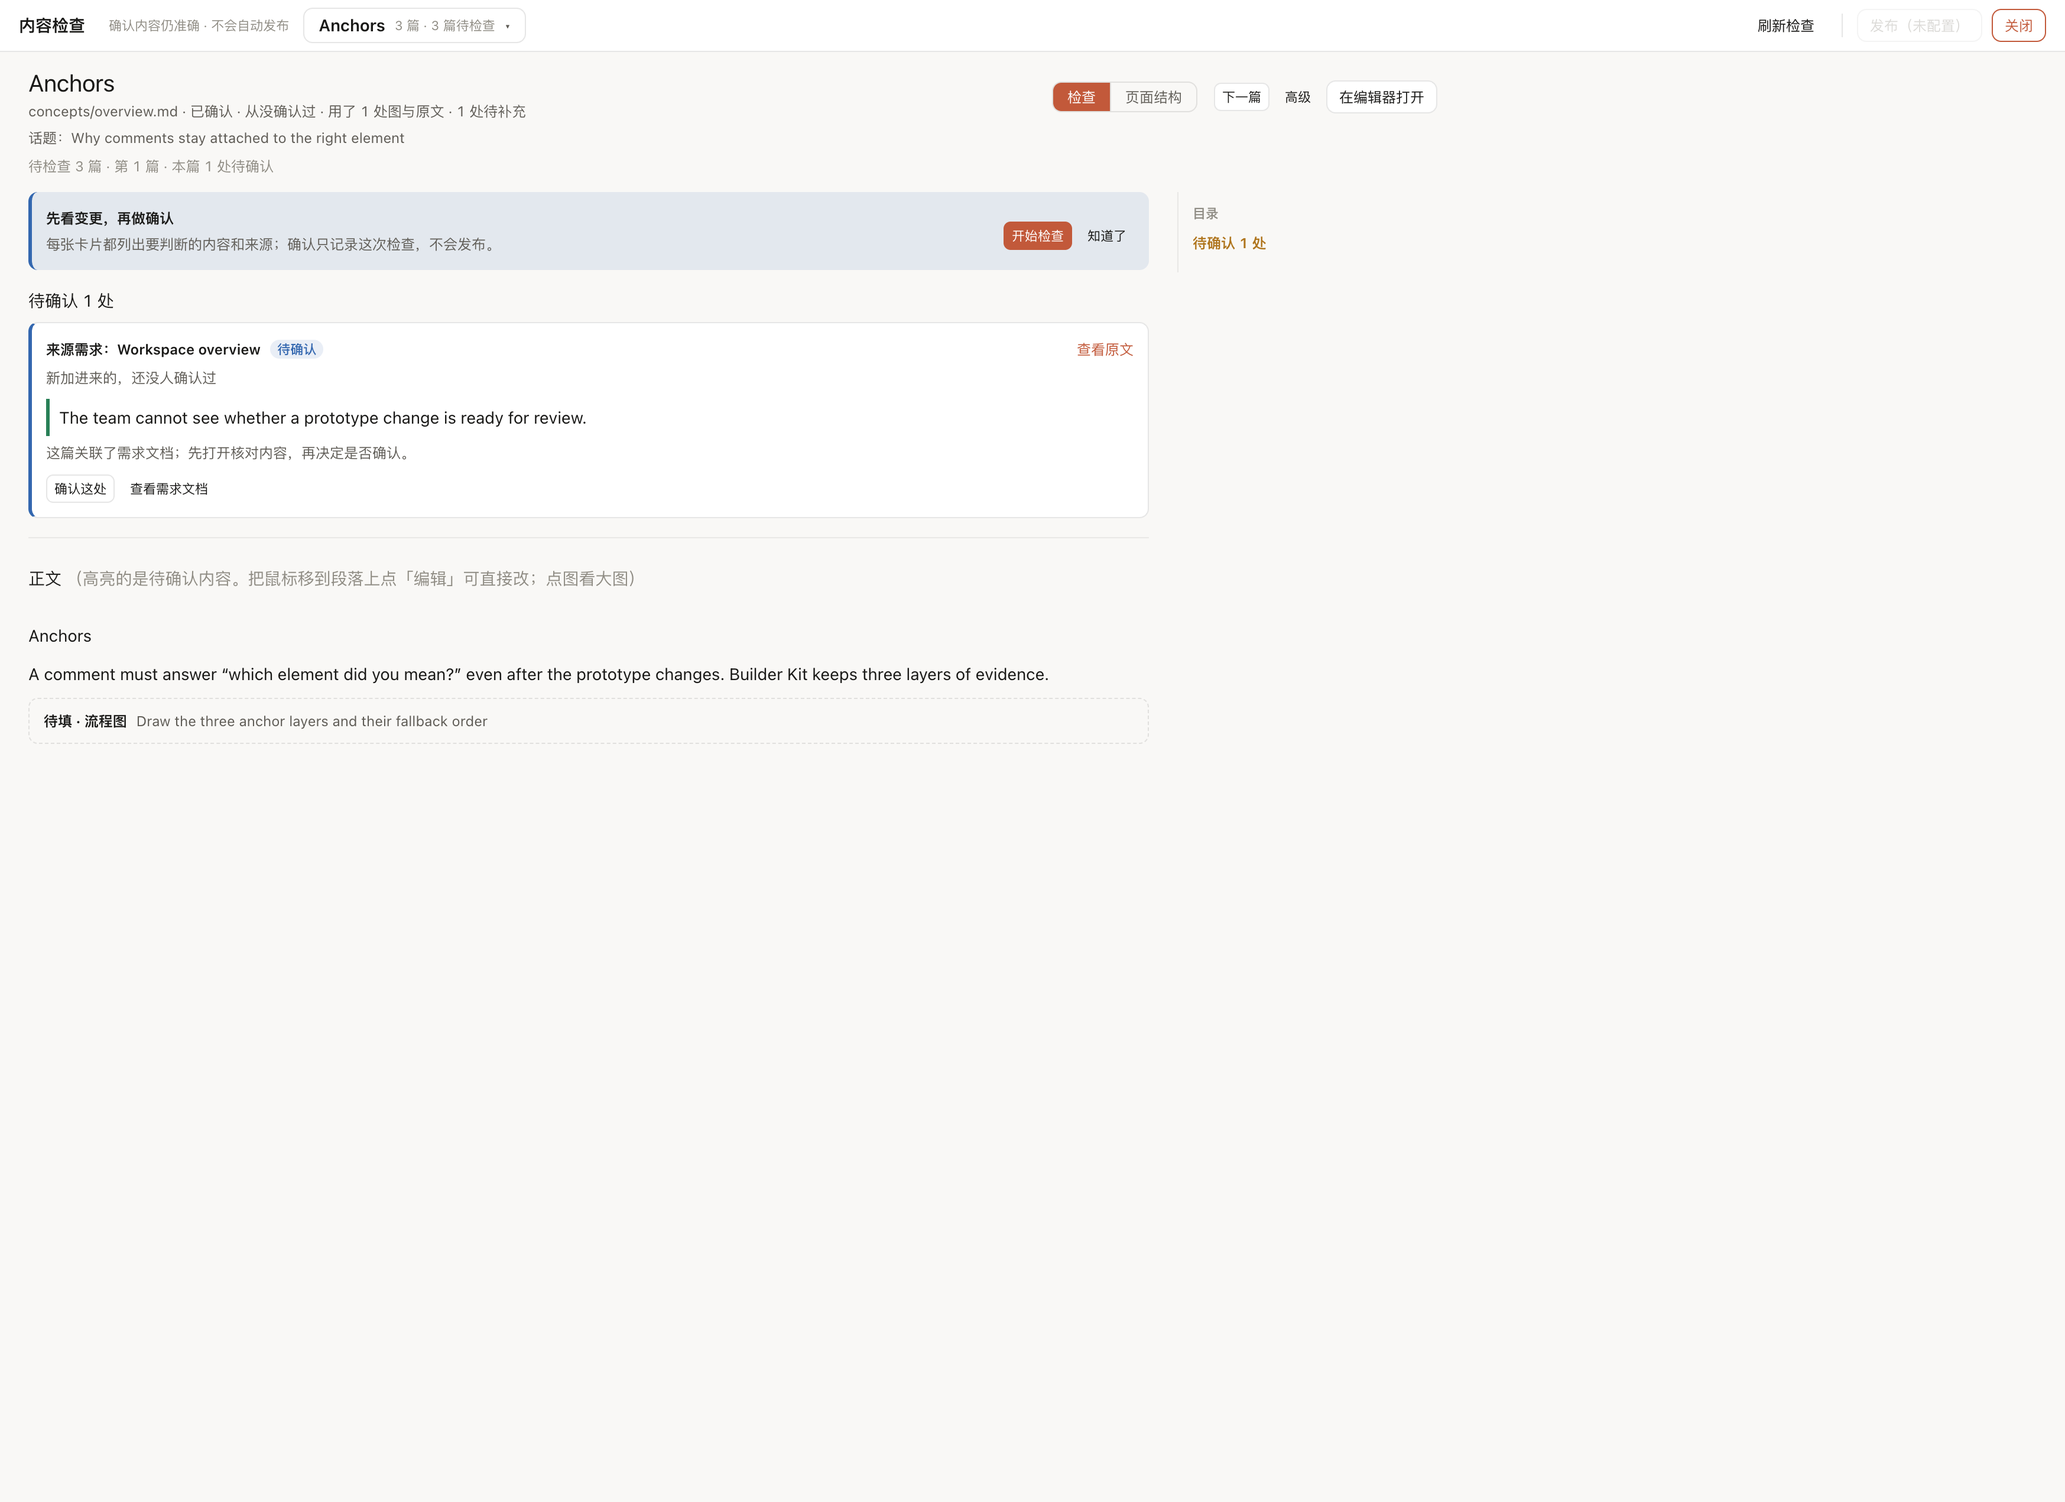
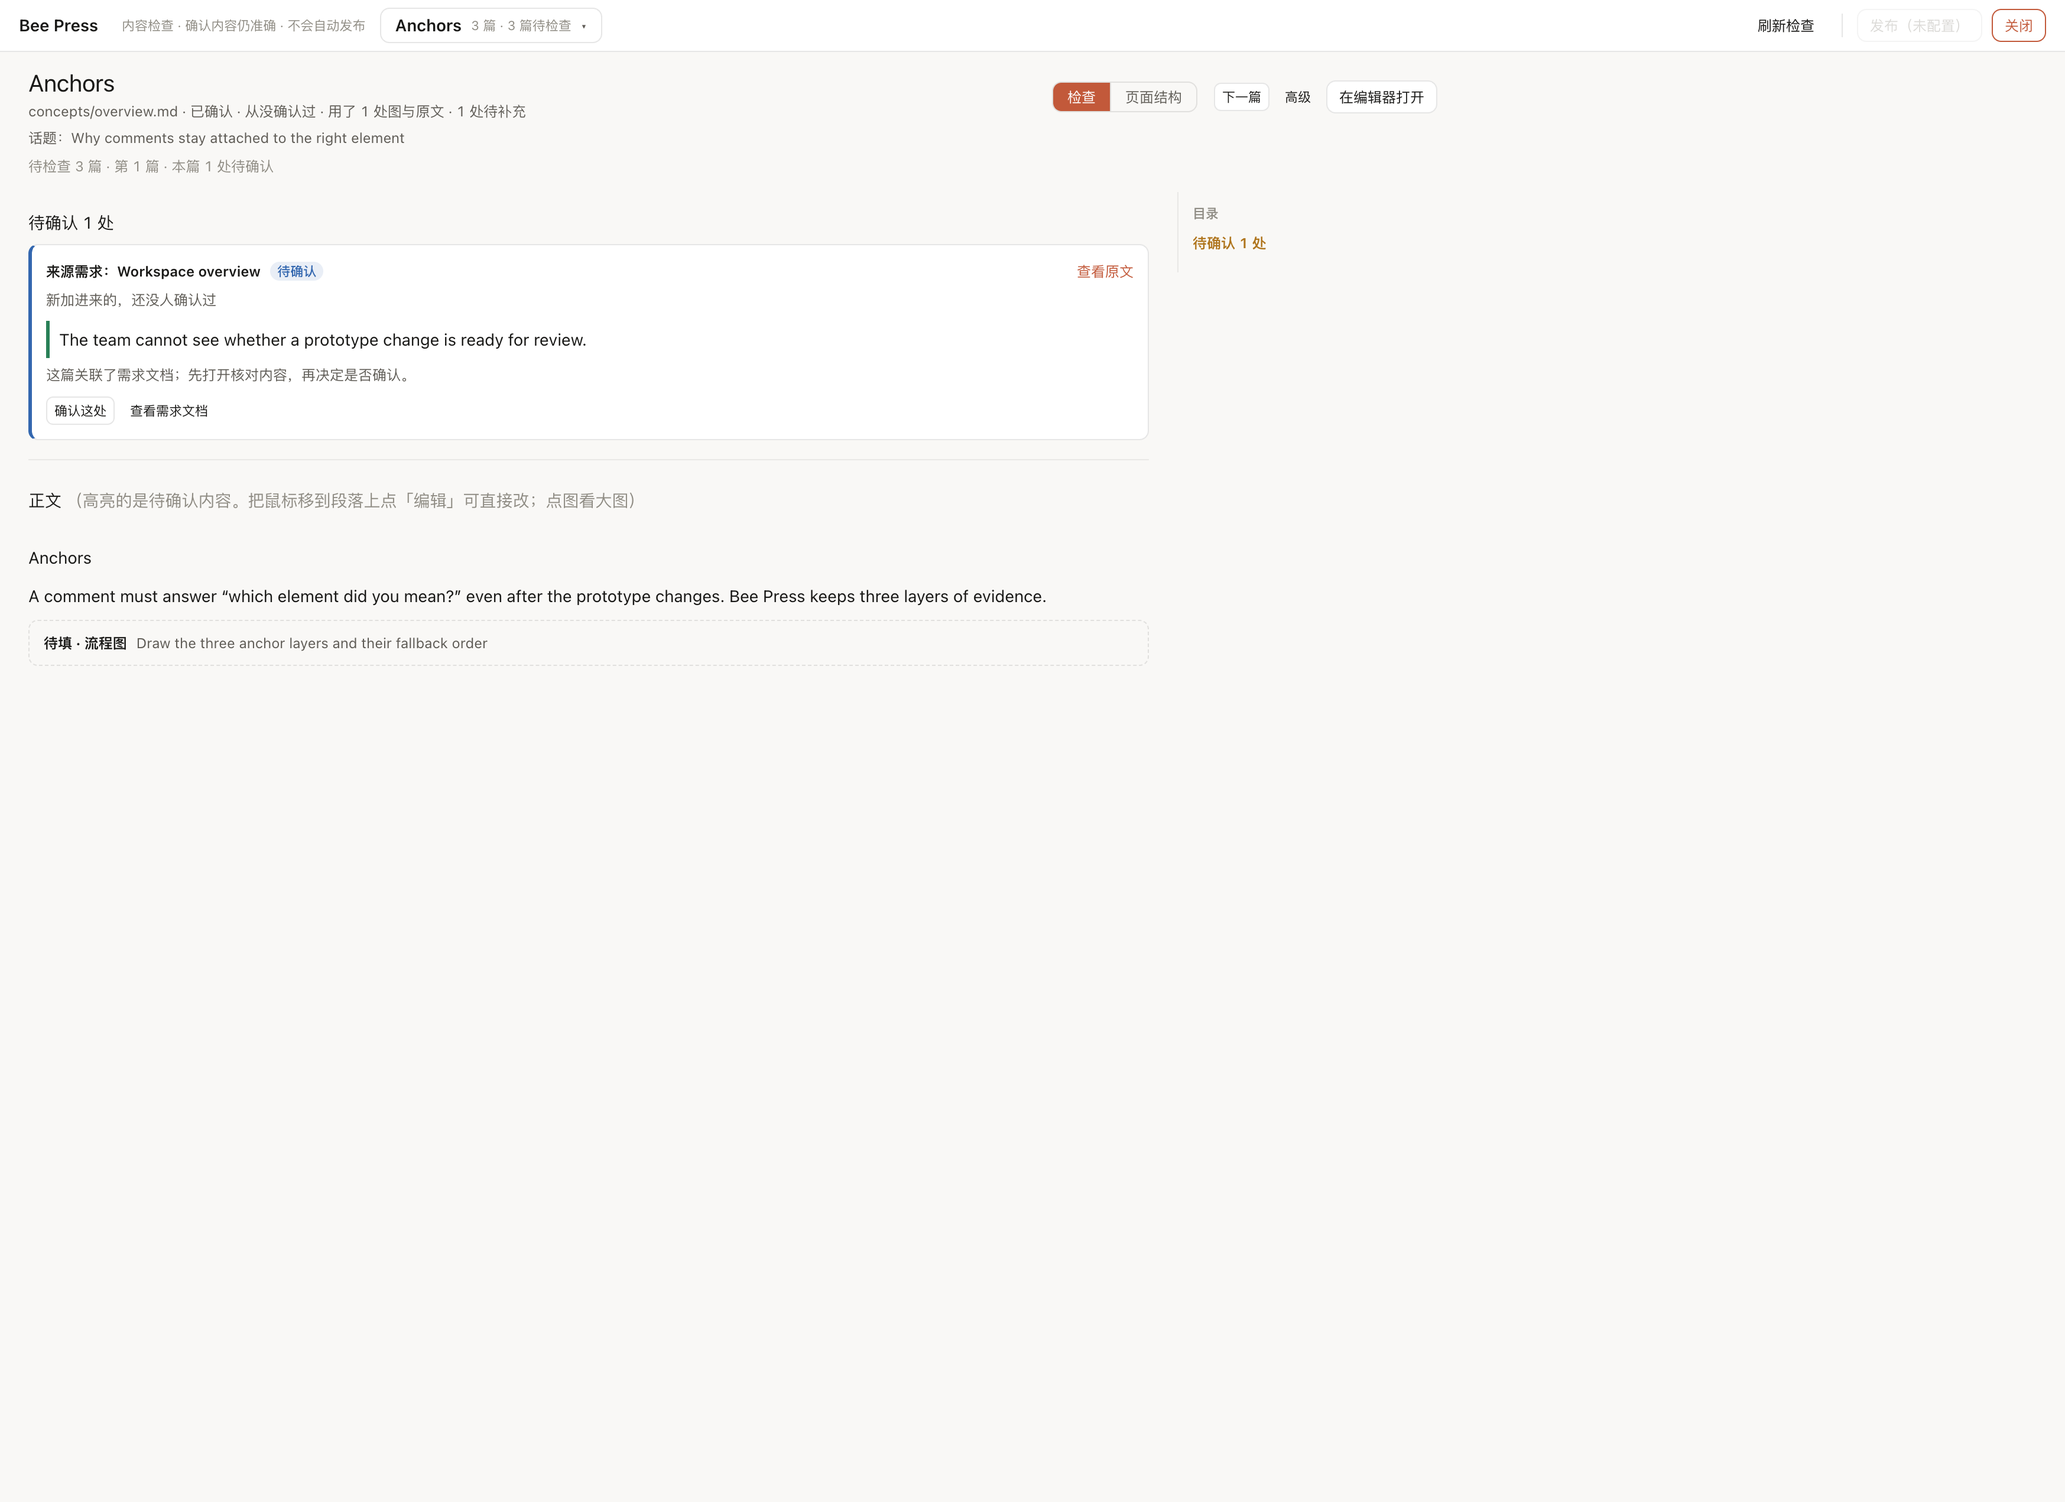
feat: rebrand as Bee Press
Introduce Bee Press as the product name while keeping the builder-kit
package, imports and environment variables compatible. Add the beepress
CLI alias, document the agent-hive model, and update README, docs, demo
copy and the content-studio screenshot.

diff --git a/client/studio/StudioRoot.jsx b/client/studio/StudioRoot.jsx
@@ -130,7 +130,7 @@ function ReshootButton({ items, running }) {
 }
 
 /**
- * 内容检查台 —— 与评审套件平级的第二个工具层。
+ * Bee Press 内容检查台 —— 与评审套件平级的第二个工具层。
  *
  * 两块：顶栏的「内容」下拉是生产出来的全部篇目（按知识库大纲分组，能搜、能只看要处理的、能按话题新建）；
  * 下面是打开的那一篇（审阅 / 构成）。要 Agent 写的活复制成指令，交给 IDE 里的 Agent。
@@ -150,10 +150,10 @@ export function StudioRoot() {
       <DemoRecorder />
       <MediaLightbox />
       {snap.open && (
-        <section className="st-surface" data-review-ui role="dialog" aria-label="内容检查">
+        <section className="st-surface" data-review-ui role="dialog" aria-label="Bee Press 内容检查">
           <header className="st-bar">
-            <span className="st-brand">内容检查</span>
-            <span className="st-brand-sub">确认内容仍准确 · 不会自动发布</span>
+            <span className="st-brand">Bee Press</span>
+            <span className="st-brand-sub">内容检查 · 确认内容仍准确 · 不会自动发布</span>
             {s ? <ContentMenu /> : snap.loading ? <span className="st-muted">读取中…</span> : null}
 
             <div className="st-bar-right">

diff --git a/client/studio/StudioEntry.jsx b/client/studio/StudioEntry.jsx
@@ -4,7 +4,7 @@ import { Btn, Icon } from "../core/ui";
 import { openStudio, studioState } from "./store";
 
 /**
- * 内容检查台在评审工具栏里的入口。
+ * Bee Press 内容检查台在评审工具栏里的入口。
  *
  * 不在入口上挂待审计数：算一次工作清单要比对截图，每次打开原型都算一遍不划算。
  * 也不做成页面右下角的浮标——原型里列表页占多数，那个位置是分页控件的地盘。
@@ -12,7 +12,7 @@ import { openStudio, studioState } from "./store";
 export function StudioEntry() {
   const snap = useSnapshot(studioState);
   return (
-    <Btn kind={snap.open ? "primary" : undefined} title="打开内容检查：哪些内容待确认、哪些图该重拍、检查完再发布到宿主配置的目标端" onClick={openStudio}>
+    <Btn kind={snap.open ? "primary" : undefined} title="打开 Bee Press 内容检查：哪些内容待确认、哪些图该重拍、检查完再发布到宿主配置的目标端" onClick={openStudio}>
       <Icon name="doc" />
       内容
     </Btn>

diff --git a/examples/react-tailwind/src/App.jsx b/examples/react-tailwind/src/App.jsx
@@ -46,7 +46,7 @@ function Hero({ onNew, onReview }) {
             Make retrieval quality visible before it ships.
           </h1>
           <p className="mt-2 text-body-lg text-secondary wrap-pretty">
-            Helix is a synthetic product workspace for the Builder Kit demo: runs, review threads and content health in one place.
+            Helix is a synthetic product workspace for the Bee Press demo: runs, review threads and content health in one place.
           </p>
           <div className="mt-3 flex flex-wrap items-center gap-2 text-caption">
             <span className="inline-flex items-center gap-1.5 rounded-sm bg-surface-3 px-2 py-1 font-mono text-tertiary">

diff --git a/examples/react-tailwind/src/components/SpecView.jsx b/examples/react-tailwind/src/components/SpecView.jsx
@@ -584,7 +584,7 @@ function SpecView() {
                 <Message role="user" meta="14:32 · product">
                   Can we show where a comment is anchored?
                 </Message>
-                <Message role="assistant" meta="14:33 · Builder Kit">
+                <Message role="assistant" meta="14:33 · Bee Press">
                   Yes. The composer shows the source coordinate, and the review queue keeps the anchor after a refresh.
                 </Message>
                 {lastPrompt && (

diff --git a/client/core/theme-defaults.less b/client/core/theme-defaults.less
@@ -1,4 +1,4 @@
-// Builder Kit default theme — maps the toolkit's Less variables to Tool UI Spec tokens.
+// Bee Press default theme — maps the toolkit's Less variables to Tool UI Spec tokens.
 // ------------------------------------------------------------------
 // The canonical values live in ui-spec/tokens.json / tokens.css. Hosts that already
 // inject their own @color-* tokens can skip this file; hosts without a design-token

diff --git a/examples/react-tailwind/src/main.jsx b/examples/react-tailwind/src/main.jsx
@@ -13,7 +13,7 @@ function render(app) {
 }
 
 if (import.meta.env.DEV) {
-  // Dev-only integration: production builds contain no Builder Kit code.
+  // Dev-only integration: production builds contain no Bee Press code.
   import("builder-kit/react").then(({ BuilderKitRoot }) => {
     render(
       <BuilderKitRoot router={router}>

diff --git a/examples/react-tailwind/index.html b/examples/react-tailwind/index.html
@@ -4,7 +4,7 @@
     <meta charset="UTF-8" />
     <meta name="viewport" content="width=device-width, initial-scale=1.0" />
     <meta name="theme-color" content="#faf9f7" />
-    <title>Helix · Builder Kit demo</title>
+    <title>Helix · Bee Press demo</title>
   </head>
   <body>
     <div id="root"></div>

diff --git a/client/index.js b/client/index.js
@@ -1,5 +1,5 @@
 /**
- * Builder Kit client entry
+ * Bee Press client entry
  * ==================================================================
  * The UI is React (core / review / studio) and does not know the host
  * framework. Hosts integrate through a thin adapter:

diff --git a/client/core/tokens.css b/client/core/tokens.css
@@ -1,2 +1,2 @@
-/* Builder Kit token runtime. The canonical values live in ui-spec/tokens.css. */
+/* Bee Press token runtime. The canonical values live in ui-spec/tokens.css. */
 @import "../../ui-spec/tokens.css";

diff --git a/README.md b/README.md
@@ -1,13 +1,22 @@
-# Builder Kit
+# Bee Press
 
-**Prototype-native content production and publishing layer.** Turn a running prototype into source-grounded manuals, launch notes, message cards, campaign copy, screenshots, GIFs and clips — review them in place, keep them fresh, and deliver them through a pluggable destination layer.
+**A hive of agents. One source of truth.**
+
+Bee Press is the prototype-native content production and publishing layer. Turn
+a running prototype into source-grounded manuals, launch notes, message cards,
+campaign copy, screenshots, GIFs and clips — review them in place, keep them
+fresh, and deliver them through a pluggable destination layer.
 
 [![License: MIT](https://img.shields.io/badge/License-MIT-yellow.svg)](./LICENSE)
 [![Node.js >= 18](https://img.shields.io/badge/node-%3E%3D18-brightgreen)](https://nodejs.org/)
 
-[中文文档](./README.zh-CN.md)
+[中文文档](./README.zh-CN.md) · [Brand guide](./docs/brand.md)
 
-Builder Kit attaches two independent tools to a running prototype:
+> **Name:** Bee Press is the product name. The package, import paths,
+> environment variables and `bk` CLI keep the `builder-kit` /
+> `BUILDER_KIT_*` names for compatibility; `beepress` is an alias.
+
+Bee Press attaches two independent tools to a running prototype:
 
 | Tool | What it does | Where it lands |
 |---|---|---|
@@ -16,13 +25,13 @@ Builder Kit attaches two independent tools to a running prototype:
 
 The UI is React and lives in an isolated root under `<body>`. A thin host adapter mounts it; the prototype keeps its own framework. **React is the primary adapter**; a **Vue 2** adapter is optional. Writing an adapter for Vue 3 or another framework is intentionally small (three responsibilities: layout slots, router bridge, host controls).
 
-The toolkit is **dev-only**. Production builds contain no Builder Kit code and no React.
+The toolkit is **dev-only**. Production builds contain no Bee Press code and no React.
 
 ---
 
 ## Content positioning
 
-Builder Kit is not a generic AI writing tool. It gives an Agent a verifiable
+Bee Press is not a generic AI writing tool. It gives an Agent a verifiable
 prototype environment to work from:
 
 - the Agent reads source, routes, components, FRS and DOM state instead of
@@ -37,8 +46,26 @@ prototype environment to work from:
 - Markdown, media recipes, facts and review locks stay in the repository:
   diffable, rollbackable and editable by the Agent.
 
-In one sentence: **Builder Kit is the prototype-native content production and
+In one sentence: **Bee Press is the prototype-native content production and
 publishing layer, not a generic document editor or screenshot tool.**
+
+## Why the hive
+
+Bee Press is not a chat box with a human in the middle. It is a hive of
+specialised agents working on shared artifacts:
+
+- **Worker roles** — reading source, inspecting pages, capturing screenshots and
+  clips, writing, reviewing and publishing can be separate agents.
+- **Stigmergy** — agents coordinate through the repository, not a conversation.
+  Fact references, review locks, media ledgers and publish state are the traces
+  they leave for each other.
+- **Honey** — the content bundle is the shared output.
+- **Pollination** — destination adapters carry the same bundle to docs, IM,
+  asset libraries or internal platforms.
+- **Press** — human review and publishing stay explicit, never automatic.
+
+The bee is not a mascot for "AI magic". It is an operating model: many small
+workers, one source of truth.
 
 ## Why this exists
 
@@ -48,7 +75,7 @@ manuals, launch notes and screenshots are copied by hand from the prototype and
 are stale almost immediately. Generic AI writing tools cannot close that gap
 because they cannot see the running product or verify what they wrote.
 
-Builder Kit treats both as first-class:
+Bee Press treats both as first-class:
 
 - **Review** makes every comment addressable. The Vite plugin injects
   `file:line:column` into Vue template elements and JSX elements; after the
@@ -64,7 +91,7 @@ Builder Kit treats both as first-class:
 
 ## What it produces
 
-| Output | What Builder Kit contributes | Typical carrier |
+| Output | What Bee Press contributes | Typical carrier |
 | :-- | :-- | :-- |
 | Operation manual / feature guide | Narrative + real screenshots + verified steps | Feishu Docs, Tencent Docs, wiki, site |
 | Launch note / version update | Release facts + cover image + links | Docs, IM, email, internal feed |
@@ -84,7 +111,7 @@ Builder Kit treats both as first-class:
   topic-based scaffolding and plain-language confirmation cards.
 - **Agent-ready context**: `kb context` and “copy for Agent” commands give an
   IDE Agent the page refs, available media recipes, requirements and source
-  locations it needs; Builder Kit does not run the writing Agent itself.
+  locations it needs; Bee Press does not run the writing Agent itself.
 - **Media pipeline**: Chrome DevTools Protocol for screenshots and recordings,
   ffmpeg for GIF/video composition — reproducible recipes, no Playwright
   dependency.
@@ -109,6 +136,7 @@ Builder Kit treats both as first-class:
 
 ```bash
 npm install --save-dev builder-kit
+# CLI aliases: beepress, builder-kit, bk
 # peers, if the host does not already have them
 npm install --save-dev vite less
 # add the optional Vue 2 adapter peer only if the host uses it
@@ -117,7 +145,7 @@ npm install --save-dev vue@2.7
 
 ## Project layout
 
-Builder Kit reads and writes a small, conventional directory tree in the host project:
+Bee Press reads and writes a small, conventional directory tree in the host project:
 
 ```text
 my-prototype/
@@ -309,7 +337,7 @@ Long-form content is implemented end-to-end today. Message cards and asset
 libraries use the same destination layer; the adapter exposes resource-level
 methods for those carriers instead of forcing them into Markdown.
 
-Builder Kit does **not** run a hidden writing Agent. It makes the IDE Agent
+Bee Press does **not** run a hidden writing Agent. It makes the IDE Agent
 precise by supplying source context, executable media recipes, freshness checks
 and a human review gate.
 
@@ -383,7 +411,7 @@ Environment variables:
 
 ## CLI
 
-The package installs one dispatcher with two aliases (`builder-kit` and `bk`):
+The package installs one dispatcher with three aliases (`beepress`, `builder-kit` and `bk`). The examples below use `builder-kit` because the npm package name is unchanged; `beepress` behaves identically.
 
 ```bash
 npx builder-kit kb status
@@ -403,7 +431,7 @@ The `check-ui`, `check-routes` and `check-frs` scripts are **reference host chec
 
 ## Publishing
 
-Publishing is optional. Builder Kit owns the content bundle, plan/confirm,
+Publishing is optional. Bee Press owns the content bundle, plan/confirm,
 resumable state and the studio UI. The **destination** is an adapter owned by
 the host:
 

diff --git a/docs/brand.md b/docs/brand.md
@@ -1,0 +1,71 @@
+# Bee Press brand
+
+**A hive of agents. One source of truth.**
+
+Bee Press is the product name for the prototype-native content production and
+publishing layer. The npm package and import paths remain `builder-kit`, and the
+`bk` / `builder-kit` CLIs remain aliases, so the rebrand does not break existing
+hosts.
+
+## Why Bee Press
+
+Bee Press is not a chat box with a human in the middle. It is a hive of
+specialised agents working on shared artifacts:
+
+- **Worker roles** — reading source, inspecting pages, capturing screenshots and
+  clips, writing, reviewing and publishing can be separate agents.
+- **Stigmergy** — agents coordinate through the repository rather than a
+  conversation. Facts, review locks, media ledgers and publish state are the
+  traces they leave for each other.
+- **Honey** — the content bundle is the shared output.
+- **Pollination** — destination adapters carry the same bundle to docs, IM,
+  asset libraries or internal platforms.
+- **Press** — human review and publishing stay explicit, never automatic.
+
+The bee is not a mascot for "AI magic". It is an operating model: many small
+workers, one source of truth.
+
+## Naming
+
+| Context | Name |
+| :-- | :-- |
+| Product name | **Bee Press** |
+| Package | `builder-kit` (compatibility) |
+| CLI | `beepress`, `builder-kit`, `bk` |
+| Review capability | Bee Review |
+| Content capability | Bee Studio |
+| Publishing capability | Bee Publish |
+| Repository | `builder-kit` until the compatibility window closes |
+
+Use **Bee Press** in prose and headings. Use `beepress` for package-like
+identifiers and commands. Do not write `BeePress` in prose.
+
+## Taglines
+
+Primary:
+
+> **A hive of agents. One source of truth.**
+
+Supporting:
+
+- **Many agents. One story.**
+- **Pollinate every destination.**
+- **Review the prototype. Publish with proof.**
+
+## Voice
+
+- Evidence first: name the source, the page, the fact or the artifact.
+- Calm and precise; no "magic", "revolutionary" or anthropomorphic bee puns.
+- Explain the task before the mechanism. "Confirm this page is still accurate"
+  comes before "review lock" or "content bundle".
+- The human sets intent and approves. Agents do the repetitive work.
+
+## Visual direction
+
+- Editorial hive: a hexagonal grid used as structure, not decoration.
+- One small bee mark, preferably line art; avoid cartoon mascots, wings on every
+  icon or yellow-heavy surfaces.
+- Amber is an accent, not the page background. Keep the existing warm neutral
+  palette and semantic status colors.
+- The wordmark is `Bee Press` in the existing UI type scale; no custom display
+  font is required.
